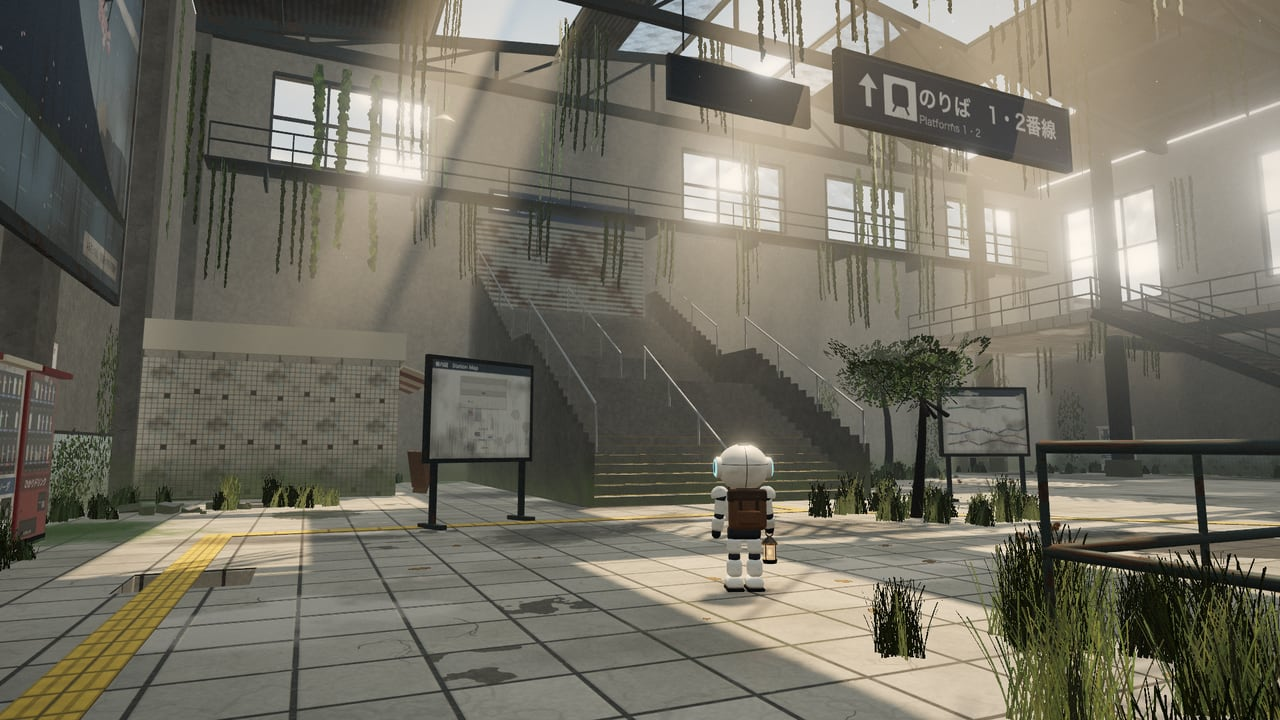
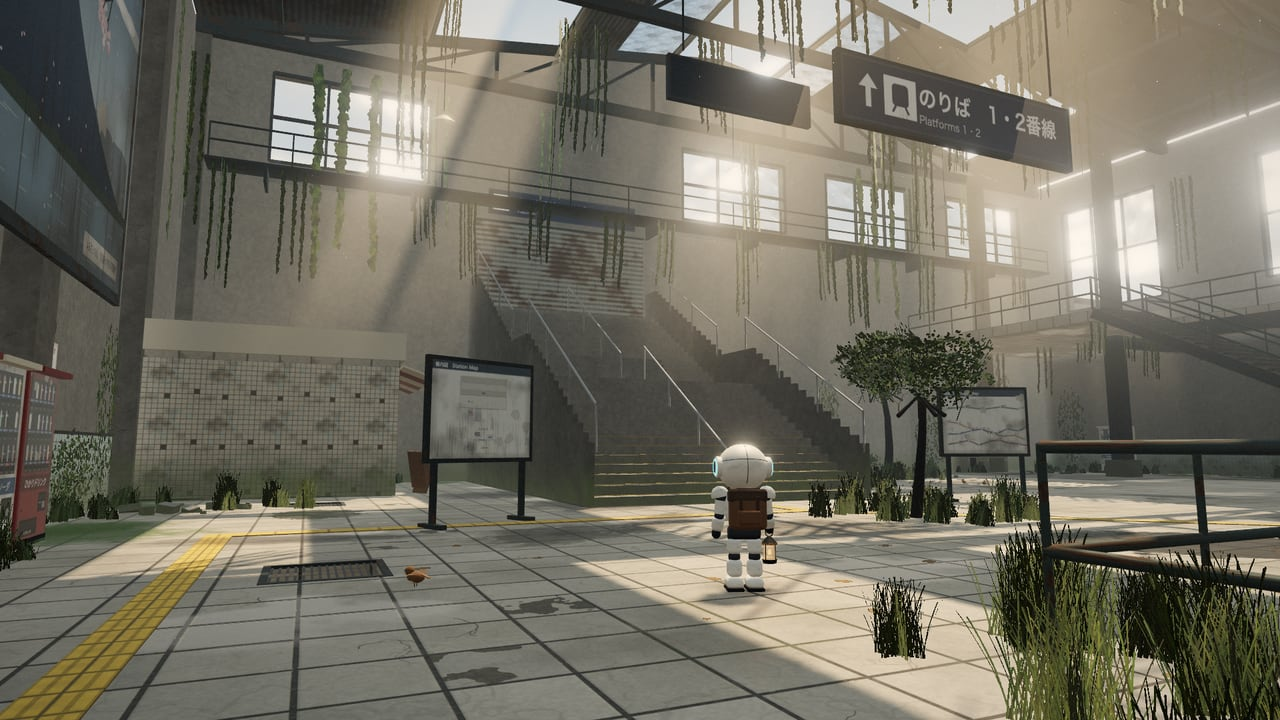
Fix notebook lockup on touch, cover floor grates, and tidy props
試遊で 4 つの指摘があった。

- スマホで手帳を開いて「とじる」を押すと、UI がすべて消えて操作できなくなった。
  原因：手帳を開くとき、Game.setState('notebook') と Notebook.open() の両方が画面を開き、
  画面の積み重ねに手帳が 2 回入っていた。「とじる」は 1 回だけ閉じるので「まだ開いている」扱いが残り、
  手帳の状態から戻れなかった（キーボードの Tab／Esc は全部を閉じるので起きなかった。マウスで「とじる」を押すと同じことが起きた）。
  Notebook.open() は開いていなければ開くだけにし、Screens.open() も同じ画面を 2 回積まないようにした（両方で防ぐ）。
- ホールの床に四角い穴があいていて、点字ブロックの線が穴の上を通っていた。
  地下通路へ光を落とす「格子」のつもりだったが、ふた（グレーチング）を作っていなかった。
  透けるグレーチングと枠を置き、上を歩けるようにした（光は透けて、影も格子の形になる）。
  あわせて、点字ブロックの線と地下の蛍光灯の真上からよけるよう、格子を東へ 1m ずらした。
  床のしみ・落ち葉・草は格子の上に置かないようにした。
- 駅務室の机のやかん（コップに見える）が、机のはしからはみ出して落ちそうだった。机の内側へ移した。
- バルコニーの「待合室」の看板が窓に半分かかり、窓の枠が看板の前に出ていた。窓と窓のあいだの壁へ移し、少し小さくした。

確かめたこと：
- スマホと同じタッチ（CDP）で、手帳を開く → タブの切り替え → とじる → スティックで歩く →
  一時停止 → 設定 → もどる → つづける → もう一度手帳、を通し、毎回プレイに戻って UI が出ることを確かめた。
- 格子の上を自動で歩かせて落ちないこと、上と下から見た見た目、やかんと看板の位置を、実 GPU の撮影で確かめた。
- README のタイトルとコンコースの画像は、格子が写っているので撮り直した。

AI-Model: claude-opus-5-5
AI-Effort: max

diff --git a/src/game/world/dress.js b/src/game/world/dress.js
@@ -1,6 +1,6 @@
 // 駅の飾りつけ：小物を置く。動く物・電気で光る物・調べられる物の手がかりは refs に入れて返す。
 import * as THREE from 'three';
-import { L, inPit } from './layout.js';
+import { L, inPit, onGrate } from './layout.js';
 import * as P from './props.js';
 import * as SG from './signs.js';
 import { sheet, patch } from './materials.js';
@@ -116,6 +116,26 @@ export function dressStation(B, M, scene) {
   // ロッカー（前の面の位置で置く。奥行き 0.6m が壁の手前に収まるように）
   P.lockers(B, M, H.x1 - 0.63, -1.2, -Math.PI / 2, 7, 4);
   P.lockers(B, M, 13.4, H.z0 + 0.63, 0, 7, 4);
+  // 床の格子（下は地下通路）。上を歩けて、光が透けて落ちる。影も格子の形に（customDepthMaterial）
+  const grTex = SG.gratingTex();
+  const grMat = sheet(grTex, { transparent: true, rough: 0.55 });
+  grMat.side = THREE.DoubleSide;
+  const grDepth = new THREE.MeshDepthMaterial({ depthPacking: THREE.RGBADepthPacking, map: grTex, alphaTest: 0.5, side: THREE.DoubleSide });
+  for (const [x, z] of L.grates) {
+    const m = new THREE.Mesh(new THREE.PlaneGeometry(0.9, 0.9), grMat);
+    m.rotation.x = -Math.PI / 2;
+    m.position.set(x, -0.015, z);
+    m.castShadow = true;
+    m.receiveShadow = true;
+    m.customDepthMaterial = grDepth;
+    m.name = 'grating';
+    add(m);
+    for (const k of [-1, 1]) {
+      B.box(M.steelDark, { x: x + k * 0.47, y: -0.01, z, w: 0.06, h: 0.03, d: 1.0, collide: false, cast: false });
+      B.box(M.steelDark, { x, y: -0.01, z: z + k * 0.47, w: 0.88, h: 0.03, d: 0.06, collide: false, cast: false });
+    }
+    B.world.addBox({ x, y: -0.06, z, w: 0.9, h: 0.12, d: 0.9, surface: 'metal' });
+  }
   // 落ちた案内板（斜めに床へ）
   const fallen = SG.guideSign({ w: 1536, h: 320, items: [{ icon: 'arrowR', w: 0.5 }, { icon: 'exit', w: 0.5 }, { text: '東口', sub: 'East Exit', w: 2 }], seed: 9 });
   const fs = sheet(fallen, { rough: 0.6 });
@@ -130,7 +150,8 @@ export function dressStation(B, M, scene) {
   // バルコニーの待合室あたり
   P.woodBench(B, M, 17.4, 6.6, -Math.PI / 2, 1.6, L.balcony.y);
   refs.spots.hatRail = [14.05, L.balcony.y + 1.05, 8.2];
-  P.wallSign(B, H.x1 - 0.02, L.balcony.y + 2.3, 4.5, -Math.PI / 2, 2.4, 0.5, SG.guideSign({ w: 1024, h: 214, items: [{ icon: 'waiting', text: '待合室', sub: 'Waiting Room' }], seed: 13 }));
+  // 窓（z 1.5〜4 のあいだ）の枠にかからないように、窓と窓のあいだの壁に
+  P.wallSign(B, H.x1 - 0.02, L.balcony.y + 2.3, 2.75, -Math.PI / 2, 2.0, 0.42, SG.guideSign({ w: 1024, h: 214, items: [{ icon: 'waiting', text: '待合室', sub: 'Waiting Room' }], seed: 13 }));
   P.vendingMachine(B, M, H.x1 - 0.42, -8.5, -Math.PI / 2, 1, 21);
 
   // ================================================================ 改札・駅務室・南
@@ -206,7 +227,7 @@ export function dressStation(B, M, scene) {
   for (let i = 0; i < 46; i++) {
     const x = H.x0 + 1 + rng() * (H.x1 - H.x0 - 2), z = H.z0 + 1 + rng() * (H.z1 - H.z0 - 2);
     const w = 1 + rng() * 3.2, d = 1 + rng() * 3.2, ry = rng() * 6;
-    if (inPit(x, z, Math.hypot(w, d) / 2)) continue;     // 床の穴にかかるもの
+    if (inPit(x, z, Math.hypot(w, d) / 2) || onGrate(x, z, Math.hypot(w, d) / 2)) continue;     // 床の穴・格子にかかるもの
     B.decal(stain, { x, y: 0, z, w, d, ry, lift: 0.004 + i * 0.0001 });
   }
   for (let i = 0; i < 30; i++) {
@@ -218,7 +239,7 @@ export function dressStation(B, M, scene) {
     B.decal(M.moss, { x, y: 0, z, w: 1.2 + rng() * 2.5, d: 0.8 + rng() * 1.6, ry: rng() * 6, lift: 0.008 + i * 0.0001 });
   }
   const leaf = leafMaterial();
-  const offPit = (x, z) => inPit(x, z, 0.15);
+  const offPit = (x, z) => inPit(x, z, 0.15) || onGrate(x, z, 0.1);
   P.litter(B, leaf, -6, 4, 6, 70, rng, 0, offPit);
   P.litter(B, leaf, 8, 2, 5, 40, rng);
   P.litter(B, leaf, 4, -8, 4, 40, rng);
@@ -495,7 +516,7 @@ function stationOffice(B, M, refs, add) {
   B.box(M.paper, { x: 10.4, y: 0.75, z: 13.55, w: 0.42, h: 0.03, d: 0.3, collide: false, ry: 0.2 });   // 駅の日誌
   B.box(M.plasticNavy, { x: 10.4, y: 0.76, z: 13.55, w: 0.2, h: 0.02, d: 0.3, collide: false, ry: 0.2 });
   B.cyl(M.plasticCream, { x: 11.0, y: 0.79, z: 13.8, r: 0.04, h: 0.1, seg: 10 });   // 湯のみ
-  B.cyl(M.chrome, { x: 8.7, y: 0.83, z: 13.9, r: 0.08, r2: 0.05, h: 0.18, seg: 12 });   // やかん
+  B.cyl(M.chrome, { x: 8.4, y: 0.83, z: 13.95, r: 0.08, r2: 0.05, h: 0.18, seg: 12 });   // やかん（机のはしから落ちないように内側へ）
   refs.spots.diary = [10.4, 0.8, 13.55];
   // 書類棚とファイル（北の壁）
   B.box(M.steelCream, { x: 11.6, y: 0.9, z: SO.z0 + 0.25, w: 1.6, h: 1.8, d: 0.4 });

diff --git a/src/game/world/layout.js b/src/game/world/layout.js
@@ -18,7 +18,7 @@ export const L = {
   platform2: { z0: -35, z1: -29, y: 5.2 },
   track2: { z0: -41, z1: -35, y: 4.1, rail: -38 },
   plaza: { x0: -16, x1: 18, z0: 28, z1: 46 },
-  grates: [[-13.4, 4.2], [-13.4, -3.8]],
+  grates: [[-12.4, 4.2], [-12.4, -3.8]],     // ホールの床の格子（下は地下通路）。点字ブロックの線（x = -13.5）と地下の蛍光灯をよける
   // つきみ横丁（古い地下街の入口）。地下通路の東の壁の割れ目から入る。ホールの床が抜けて、くずれた床が坂になっている。東の奥はふさがっている
   alley: { x0: -11.1, x1: -0.6, z0: 7.9, z1: 13.9, y: -4.5, h: 3, door: [10.2, 12.4] },
   pit: [[-8.0, -2.4, 8.9, 12.3], [-8.8, -8.0, 9.6, 11.6]],    // ホールの床の穴（長方形の集まり）
@@ -28,6 +28,11 @@ export const L = {
 /** (x, z) がホールの床の穴に（m だけ広げて）かかるか。 */
 export function inPit(x, z, m = 0) {
   return L.pit.some(([x0, x1, z0, z1]) => x > x0 - m && x < x1 + m && z > z0 - m && z < z1 + m);
+}
+
+/** (x, z) がホールの床の格子（0.9m 四方）に（m だけ広げて）かかるか。 */
+export function onGrate(x, z, m = 0) {
+  return L.grates.some(([gx, gz]) => Math.abs(x - gx) < 0.45 + m && Math.abs(z - gz) < 0.45 + m);
 }
 
 /** 長方形 [x0, x1, z0, z1] から穴（同じ形）を抜いた残りを、長方形の並びで返す。 */

diff --git a/src/game/world/signs.js b/src/game/world/signs.js
@@ -986,3 +986,22 @@ export function graffitiPicture({ color = [30, 34, 52], seed = 67 } = {}) {
   g.putImageData(d, 0, 0);
   return texture(c, { wrap: false });
 }
+
+/** 床の格子（グレーチング）。細い板が密に並び、つなぎの棒がまばらに渡る。すき間は透明（アルファ）。 */
+export function gratingTex({ size = 256, seed = 71 } = {}) {
+  const { c, g } = canvas(size);
+  const r = rand(seed);
+  g.clearRect(0, 0, size, size);
+  g.fillStyle = '#3b3e41';
+  for (let x = 4; x < size; x += 18) g.fillRect(x, 0, 6, size);
+  g.fillStyle = '#33363a';
+  for (let y = 20; y < size; y += 64) g.fillRect(0, y, size, 5);
+  // 錆（棒の上だけ）
+  g.globalCompositeOperation = 'source-atop';
+  for (let k = 0; k < 90; k++) {
+    g.fillStyle = r() < 0.5 ? 'rgba(122, 78, 44, 0.55)' : 'rgba(84, 60, 40, 0.5)';
+    g.beginPath(); g.arc(r.range(0, size), r.range(0, size), r.range(2, 10), 0, 6.28); g.fill();
+  }
+  g.globalCompositeOperation = 'source-over';
+  return texture(c, { wrap: false });
+}

diff --git a/src/game/world/plants.js b/src/game/world/plants.js
@@ -3,7 +3,7 @@
 // 草・茂みは InstancedMesh（数が多い）、つたと木は Builder にまとめる。
 import * as THREE from 'three';
 import { mergeGeometries } from 'three/addons/utils/BufferGeometryUtils.js';
-import { L, inPit } from './layout.js';
+import { L, inPit, onGrate } from './layout.js';
 import { rand } from './noise.js';
 
 // アトラスの区画（u0, v0, u1, v1）。canvas の上 = v の 1
@@ -180,7 +180,7 @@ export function buildPlants(B, M, scene, quality = 'high') {
   const inside = (x, z, r) => x > r.x0 - 0.2 && x < r.x1 + 0.2 && z > r.z0 - 0.2 && z < r.z1 + 0.2;
   for (let i = spots.length - 1; i >= 0; i--) {
     const [x, y, z] = spots[i];
-    if (y === 0 && (inPit(x, z, 0.12) || inside(x, z, L.kiosk) || inside(x, z, L.stationOffice))) spots.splice(i, 1);
+    if (y === 0 && (inPit(x, z, 0.12) || onGrate(x, z, 0.1) || inside(x, z, L.kiosk) || inside(x, z, L.stationOffice))) spots.splice(i, 1);
   }
   // 横丁：くずれた床の坂の、日の当たる所と、ふもと
   {

diff --git a/src/ui/Screens.js b/src/ui/Screens.js
@@ -108,8 +108,11 @@ export class Screens {
     if (name === 'settings') this.syncSettings();
     applyDom(m);
     m.classList.remove('hidden');
+    // 同じ画面を 2 回積まない（2 回積むと、もどる 1 回では閉じきらない）。開いていれば、いちばん上へ
+    const i = this.stack.indexOf(m);
+    if (i >= 0) this.stack.splice(i, 1);
     this.stack.push(m);
-    this.cb.onModal?.(name, true);
+    if (i < 0) this.cb.onModal?.(name, true);
   }
 
   /** いちばん上の画面を閉じる。閉じたら true。 */

diff --git a/src/ui/Notebook.js b/src/ui/Notebook.js
@@ -46,7 +46,9 @@ export class Notebook {
     this.items = state.items;
     this.objective = state.objective;
     this.setTab(tab, false);
-    this.screens.open('notebook');
+    // Game.setState('notebook') が先に開いている。ここでもう一度開くと積み重ねに 2 回入り、
+    // 「とじる」で 1 回閉じても開いたままの扱いになる（スマホで操作できなくなっていた）
+    if (!this.screens.isOpen('notebook')) this.screens.open('notebook');
   }
 
   setTab(tab, render = true) {
